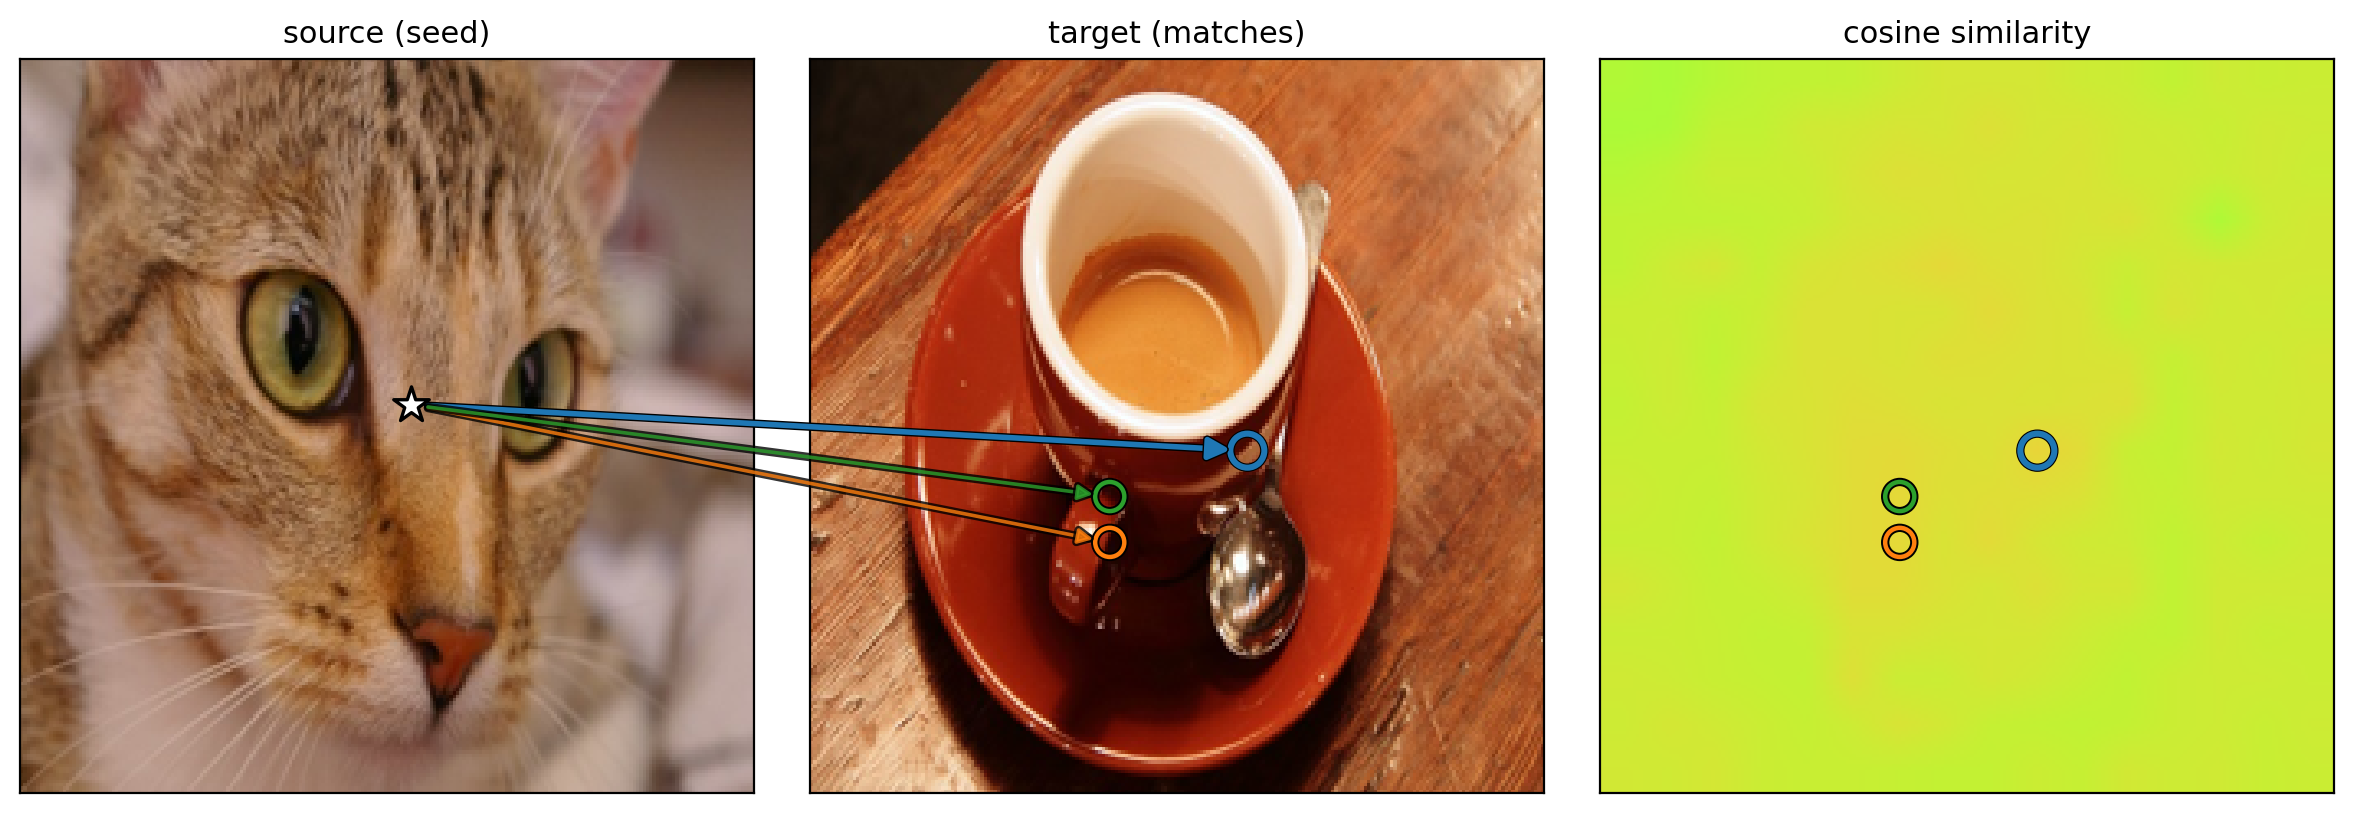
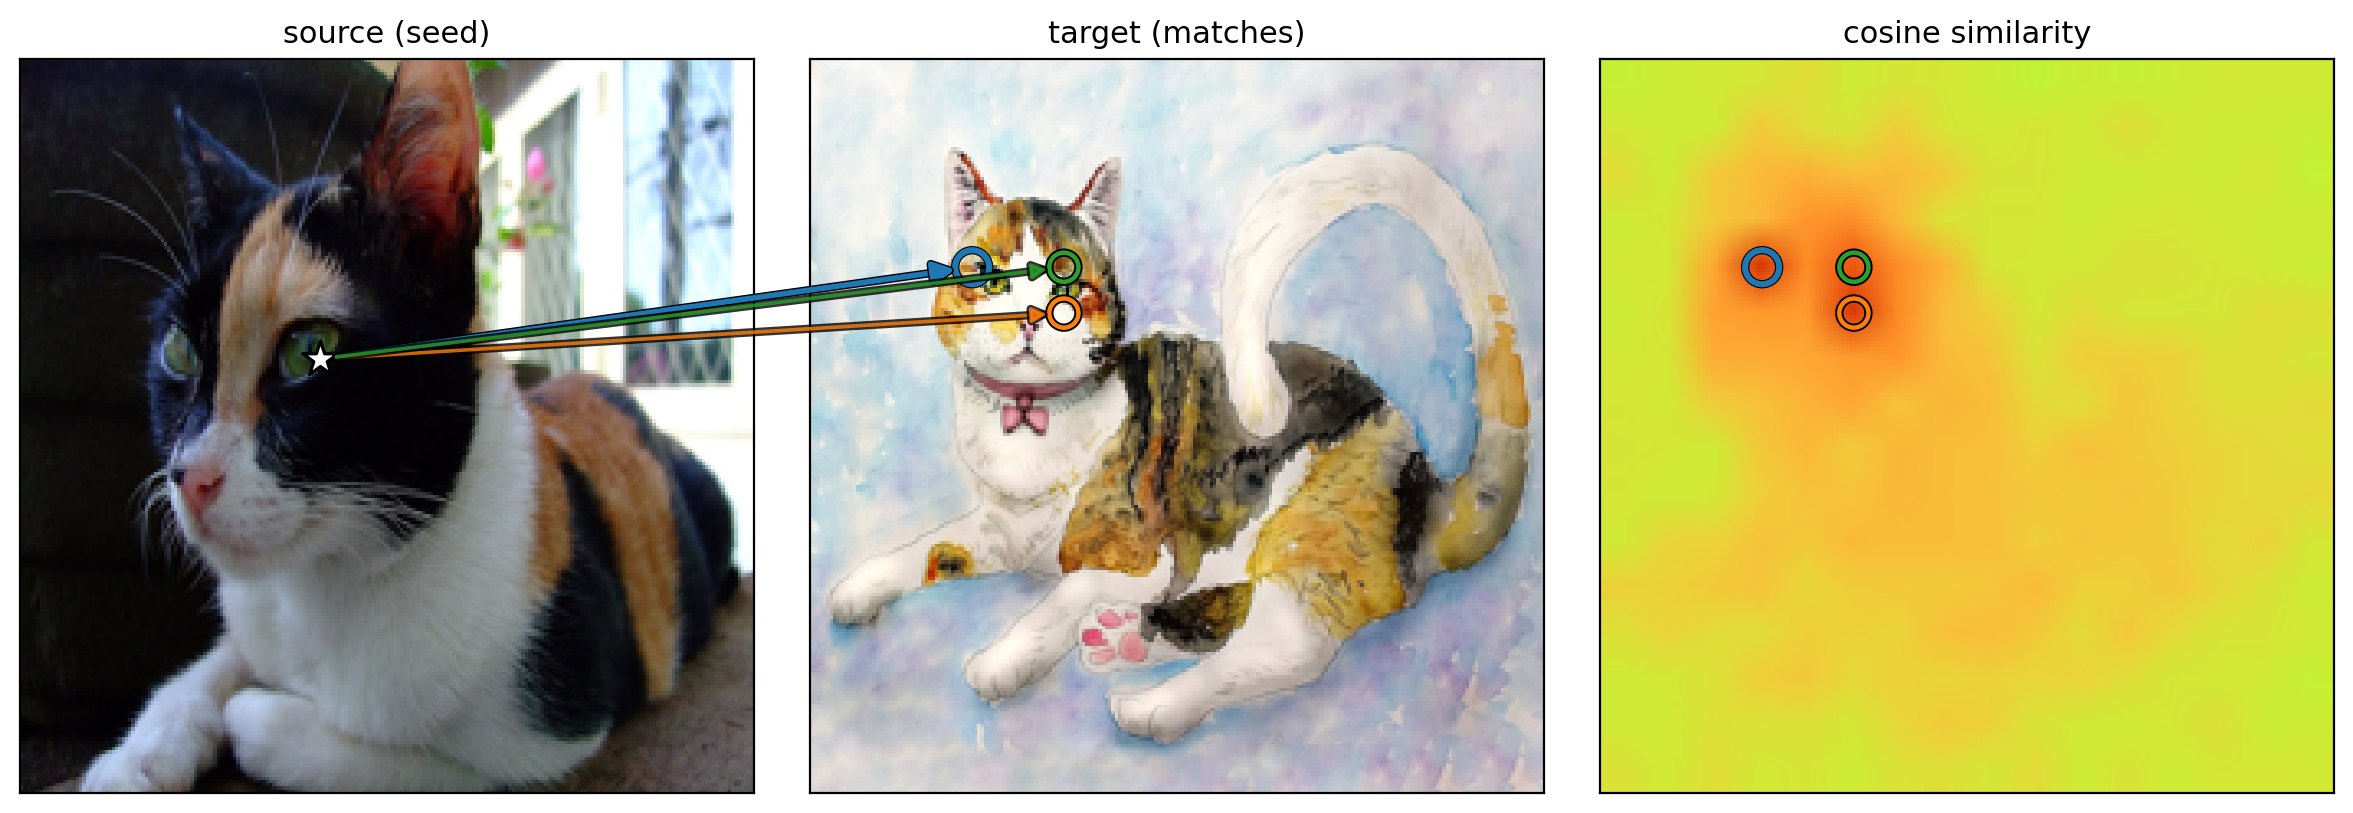
Use a related image pair for the correspondence showcase
The correspond(...) figure matched a cat to coffee — two unrelated
things, which doesn't illustrate cross-image patch matching well. Pair
a real cat photo with a watercolor cat instead: seeding the real cat's
eye now finds the same semantic part on the illustration, showing
DINOv2 features bridging the photo->illustration domain gap.

- Add examples/images/cat_cartoon.jpg (CC BY-SA 4.0, attributed).
- Regenerate examples/correspond.png (cat_hires -> cat_cartoon, eye seed).
- Update quickstart.py, README caption, CREDITS.md, CHANGELOG.

diff --git a/examples/quickstart.py b/examples/quickstart.py
@@ -36,9 +36,10 @@ ll.visualize("dinov2_vitb14", IMAGES / "cat.jpg", layers=[2, 5, 8, 11],
 ll.visualize("dinov2_vitb14", IMAGES / "cat.jpg", layers=[2, 5, 8, 11],
              method="foreground", out=HERE / "method_foreground.png")
 
-# 3c) Cross-image correspondence: seed a patch in cat, find it in coffee.
-ll.correspond("dinov2_vitb14", IMAGES / "cat.jpg", IMAGES / "coffee.jpg",
-              layer=-1, seed=(0.5, 0.45), topk=3, out=HERE / "correspond.png")
+# 3c) Cross-image correspondence: seed the real cat's eye, find the matching part in a
+#     watercolor cat — DINOv2 features match the same semantic part across photo and illustration.
+ll.correspond("dinov2_vitb14", IMAGES / "cat_hires.jpg", IMAGES / "cat_cartoon.jpg",
+              layer=-1, seed=(0.40, 0.40), topk=3, out=HERE / "correspond.png")
 
 # 4) Bring your own model (escape hatch): any nn.Module via a feature_fn or hook target.
 import torch.nn as nn

diff --git a/README.md b/README.md
@@ -63,7 +63,9 @@ and method figures further down use DINO ViT-B/16 at the default 224px.
 | `kmeans` (k=6) | <img src="https://raw.githubusercontent.com/turhancan97/FeatLens/main/examples/method_kmeans.png" width="520"> |
 | `foreground` | <img src="https://raw.githubusercontent.com/turhancan97/FeatLens/main/examples/method_foreground.png" width="520"> |
 
-**`correspond(...)` — seed a patch in image A, find the matches in image B:**
+**`correspond(...)` — seed a patch in image A, find the matches in image B.** Here the seed is on
+a real cat's eye; DINOv2 features match the *same semantic part* on a watercolor cat, across the
+photo→illustration domain gap:
 
 <p align="center"><img src="https://raw.githubusercontent.com/turhancan97/FeatLens/main/examples/correspond.png" alt="cross-image correspondence" height="300"></p>
 

diff --git a/CHANGELOG.md b/CHANGELOG.md
@@ -11,6 +11,8 @@ All notable changes to **FeatLens** are documented here. The format is based on
   backbone (`vit_small_patch8_224.dino`) at 768 px — a fine 96×96 feature grid that resolves thin
   structures (whiskers, feather barbs, individual fruit). New high-res CC-licensed example images
   (peacock, cat, market) with attribution in `examples/images/CREDITS.md`.
+- The `correspond()` showcase now matches two *related* images — a real cat's eye to a watercolor
+  cat (photo→illustration) — instead of the unrelated cat/coffee pair.
 
 ## [0.2.3] - 2026-06-29
 

diff --git a/examples/images/CREDITS.md b/examples/images/CREDITS.md
@@ -12,3 +12,4 @@ licenses. Each is reproduced here with attribution as required; the originals we
 | `peacock.jpg` | Godwin Borg | [CC BY-SA 4.0](https://creativecommons.org/licenses/by-sa/4.0/) | [Wikimedia Commons](https://commons.wikimedia.org/wiki/File:Indian_peafowl,_commonly_known_as_a_peacock,_with_its_vibrant_tail_feathers_fully_displayed.jpg) |
 | `cat_hires.jpg` | Rehman Abubakr | [CC BY-SA 4.0](https://creativecommons.org/licenses/by-sa/4.0/) | [Wikimedia Commons](https://commons.wikimedia.org/wiki/File:Cat,_tortoiseshell,_001.jpg) |
 | `market.jpg` | Daderot | [CC BY-SA 3.0](https://creativecommons.org/licenses/by-sa/3.0/) | [Wikimedia Commons](https://commons.wikimedia.org/wiki/File:Fruit_Stall_in_Barcelona_Market.jpg) |
+| `cat_cartoon.jpg` | Viktoria Borodinova | [CC BY-SA 4.0](https://creativecommons.org/licenses/by-sa/4.0/) | [Wikimedia Commons](https://commons.wikimedia.org/wiki/File:Cat_watercolor.jpg) |